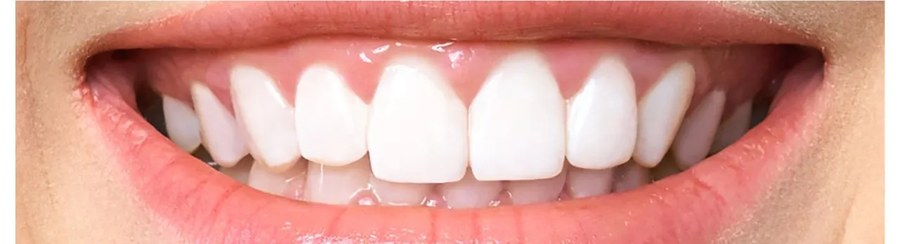
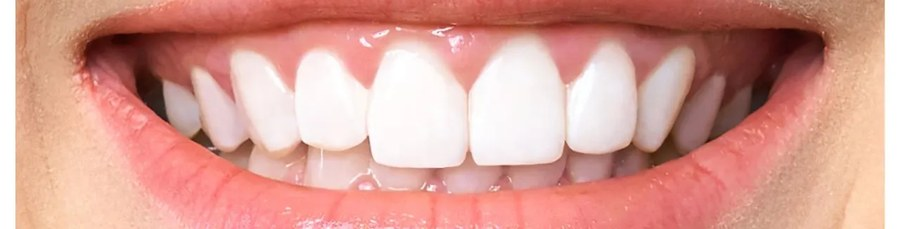
Fix vertical misalignment in before/after photos
Measured the gumline position in both crops: it sat about 20px lower
in the "after" photo than in "before", so the mouth visibly jumped at
the drag boundary. Re-cropped both around a matching reference point
(same tooth-top row) instead of just matching total height, so the
smile now reads as one continuous mouth across the seam.

Claude-Session: https://claude.ai/code/session_0196v2YvyDctQPfzLVmFZjXo

Changed region(s): [[0.0311, 0.0, 0.9956, 0.8559], [0.7778, 0.7336, 0.8089, 0.7642], [0.28, 0.7642, 0.3111, 0.7948]]

diff --git a/style.css b/style.css
@@ -808,7 +808,7 @@ section {
   position: relative;
   max-width: 620px;
   margin: 0 auto;
-  aspect-ratio: 900 / 244;
+  aspect-ratio: 900 / 229;
   border-radius: var(--radius-md);
   overflow: hidden;
   box-shadow: var(--shadow-soft);
